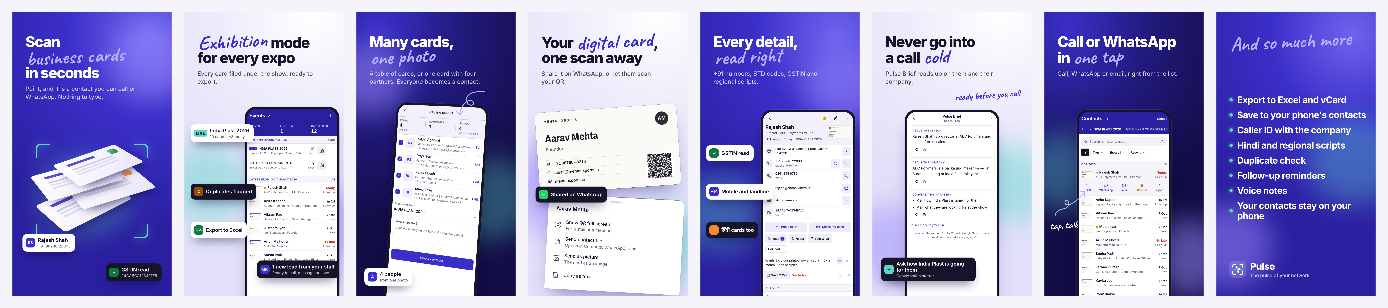
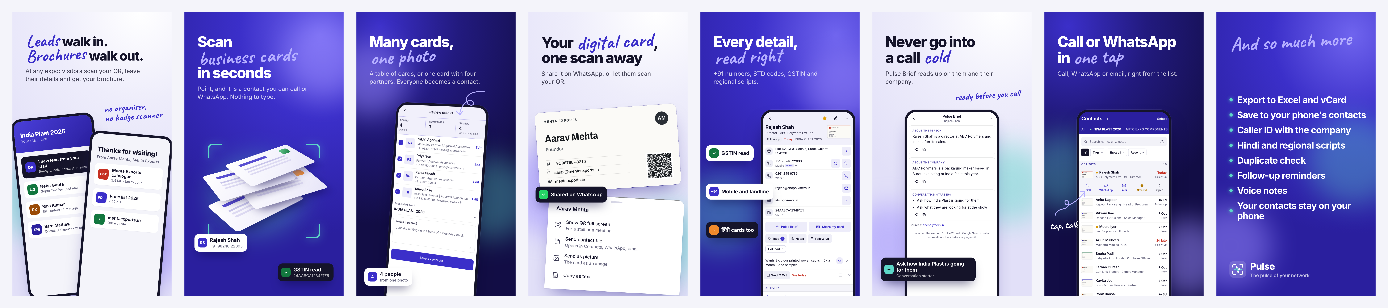
Lead capture with brochures opens the Play screenshots: Leads walk in. Brochures walk out. (scanning moves to slide 2; the expo slide merges into it)

Changed region(s): [[0.0, 0.0292, 0.2478, 0.9643]]

diff --git a/store/slides/01-leads.html b/store/slides/01-leads.html
@@ -1,0 +1,45 @@
+<!doctype html>
+<html lang="en"><head><meta charset="utf-8"><title>Leads walk in. Brochures walk out.</title><link rel="stylesheet" href="/store/slides/slide.css">
+<style>
+  /* the stall's phone (behind) and the visitor's phone (in front), drawn with the app's own words */
+  .scr { position: absolute; width: 560px; border-radius: 64px; padding: 16px; background: #15142A; box-shadow: 0 0 0 2px rgba(21,20,42,.06), 0 70px 120px -50px rgba(40,30,140,.5) }
+  .scr .in { border-radius: 50px; overflow: hidden; background: #F4F4FA; height: 100%; color: #15142A }
+  .stall { left: 50px; top: 700px; height: 1220px; transform: rotate(-6deg) }
+  .visitor { right: 40px; top: 820px; height: 1180px; transform: rotate(5deg) }
+  .bar { height: 210px; padding: 70px 40px 0; background: linear-gradient(135deg, #4A3FDA, #2A1F9E); color: #fff }
+  .bar b { display: block; font-size: 40px; font-weight: 800; letter-spacing: -.02em }
+  .bar small { font-size: 26px; opacity: .8 }
+  .row { margin: 22px 28px 0; padding: 22px; border-radius: 24px; background: #fff; display: flex; align-items: center; gap: 18px; font-size: 28px; font-weight: 650 }
+  .row small { display: block; font-size: 22px; font-weight: 500; color: #62617A; margin-top: 4px }
+  .av { flex: none; width: 70px; height: 70px; border-radius: 20px; display: grid; place-items: center; color: #fff; font-size: 26px; font-weight: 750 }
+  .toast { margin: 30px 28px 0; padding: 24px; border-radius: 26px; background: #15142A; color: #fff; display: flex; gap: 18px; align-items: center; font-size: 28px; font-weight: 700 }
+  .toast small { display: block; font-size: 22px; font-weight: 500; color: rgba(255,255,255,.72); margin-top: 4px }
+  .thanks { padding: 80px 40px 0; font-size: 44px; font-weight: 800; letter-spacing: -.02em }
+  .thanks small { display: block; font-size: 26px; font-weight: 500; color: #62617A; margin-top: 10px; letter-spacing: 0 }
+  .file { margin: 26px 34px 0; padding: 24px; border-radius: 24px; background: #fff; display: flex; align-items: center; gap: 20px; font-size: 28px; font-weight: 650; box-shadow: 0 2px 0 rgba(21,20,42,.04) }
+  .file small { display: block; font-size: 22px; font-weight: 500; color: #62617A; margin-top: 4px }
+  .ic { flex: none; width: 72px; height: 72px; border-radius: 18px; display: grid; place-items: center; color: #fff; font-size: 22px; font-weight: 800 }
+  .note { right: 70px; top: 610px }
+  h1 { font-size: 88px }   /* two phrases, each on one line */
+</style></head>
+<body class="lilac">
+<div class="glow teal" style="width:560px;height:520px;left:-120px;top:1000px"></div><div class="glow violet" style="width:520px;height:520px;right:-140px;top:1300px"></div>
+<div class="head"><h1><span class="hand">Leads</span> walk in.<br><span class="hand">Brochures</span> walk out.</h1><p class="sub">At any expo: visitors scan your QR, leave their details and get your brochure.</p></div>
+
+<div class="scr stall"><div class="in">
+  <div class="bar"><b>India Plast 2026</b><small>Your stall · live</small></div>
+  <div class="toast"><span class="av" style="background:#3B2FC9">QR</span><span>1 new lead from your stall<small>Ready to call, message or save</small></span></div>
+  <div class="row"><span class="av" style="background:#13773F">NG</span><span>Neha Gupta<small>Gupta Textiles · just now</small></span></div>
+  <div class="row"><span class="av" style="background:#9A4A06">RK</span><span>Ravi Kumar<small>RK Traders · 4 min ago</small></span></div>
+  <div class="row"><span class="av" style="background:#2A1F9E">SM</span><span>Sara Mathew<small>Coastline Exports · 12 min ago</small></span></div>
+</div></div>
+
+<div class="scr visitor"><div class="in">
+  <div class="thanks">Thanks for visiting!<small>From Aarav Mehta, Mehta Exports</small></div>
+  <div class="file"><span class="ic" style="background:#C62F22">PDF</span><span>Mehta Exports catalogue<small>2.4 MB · tap to open</small></span></div>
+  <div class="file"><span class="ic" style="background:#3B2FC9">PDF</span><span>Price list 2026<small>640 KB</small></span></div>
+  <div class="file"><span class="ic" style="background:#13773F">↗</span><span>mehtaexports.in<small>Our website</small></span></div>
+</div></div>
+
+<div class="note">no organiser,<br>no badge scanner</div>
+</body></html>

diff --git a/store/README.md b/store/README.md
@@ -12,7 +12,7 @@ yet. It's written when the iPhone app is built.
 | Main store listing → Full description | `listing.json` → `play.fullDescription` (paste as is; the line breaks are kept) |
 | Graphics → App icon (512 × 512) | `play-icon-512.png` |
 | Graphics → Feature graphic (1024 × 500) | `play/feature-graphic.png` |
-| Graphics → Phone screenshots (upload in this order) | `play/phone/01-scan.png` … `08-more.png` |
+| Graphics → Phone screenshots (upload in this order) | `play/phone/01-leads.png` … `08-more.png` |
 | App content → Data safety | `data-safety.md`, a draft: check it against the app and `public/privacy.html` before submitting |
 | App content → Privacy policy | https://prasenjit-sharma.github.io/cardpulse/privacy.html |
 
